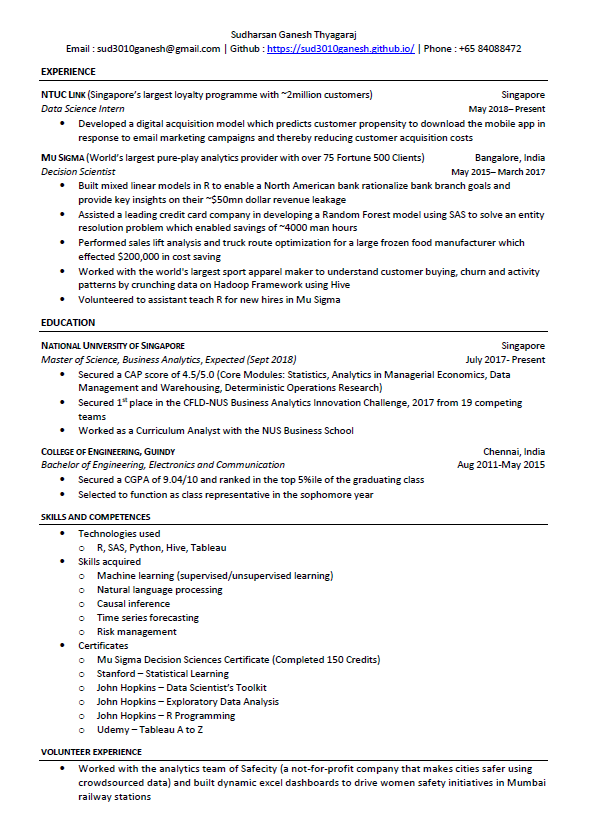
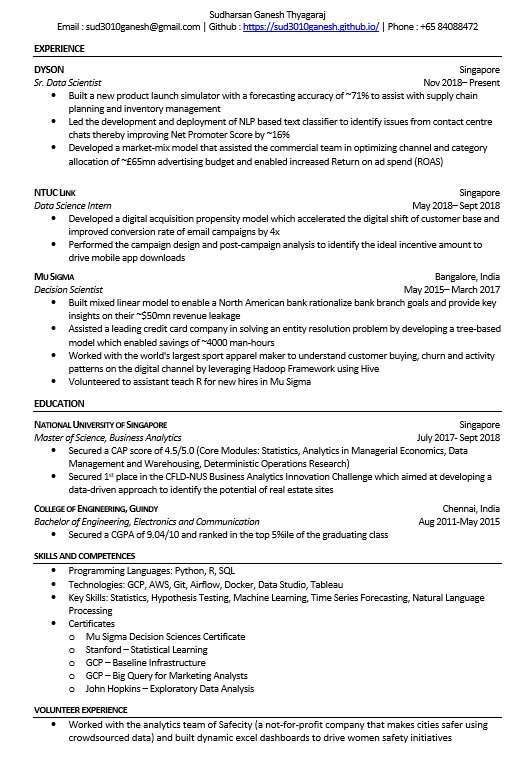
Resume Update

diff --git a/_pages/about.md b/_pages/about.md
@@ -3,10 +3,20 @@ title: "About"
 permalink: /about/
 ---
 
-I'm Sudharsan, a Data Science professional with a Masters in Business Analytics from the National University of Singapore (NUS). Prior to my Masters, I have worked with one of the world's largest pure-play analytics firms for 2 years and helped solve problems for Fortune 500 clients across e-commerce, retail and financial services domains. I have worked on problems that required definition of problem scope, data cleaning, data exploration and data visualization, selection and tuning machine learning models. The tools I have used during my stint at work include R, Python, Tableau, SAS Enterprise Guide, SAS Enterprise Miner and SQL. My current topics of interest include Natural Language Processing, Causal Inference, Time Series Forecasting, Recommender Systems and Risk Management.
+I'm Sudharsan, and I currently work as a Sr. Data Scientist in Dyson. At Dyson I work with the centralized analytics team and
+work on problems that span across different business functions and markets. I also hold a Masters in Business Analytics from the
+National University of Singapore (NUS). Prior to my Masters, I have worked with one of the world's largest pure-play analytics firms for
+2 years and helped solve problems for Fortune 500 clients across e-commerce, retail and financial services domains.
 
-I have also been a part of the team that won the top spot at the NUS Business Analytics Innovation Challenge held in 2017 and news reporting about the competition can be found on http://outside-in.nus.edu/cfld-nus-business-analytics-innovation-challenge-2017/
+I have worked across the end-to-end problem lifecycle from problem scoping, data gathering, exploration and visualization to
+development and deployment of ML models. The tools I have used during my stint at work include R, Python, Tableau, SAS Enterprise Guide,
+and SQL. I have prior experience of working with cloud platforms including GCP and AWS. My current topics of interest include
+Natural Language Processing, Time Series Forecasting and Recommender Systems.
 
-In my spare time, I play tennis, watch football and backpack to pristine locations. I have also worked with a NGO that uses data to drive women safety initiatives to leverage my analytics skills for a social cause.
+I have also been a part of the team that won the top spot at the NUS Business Analytics Innovation Challenge held in 2017.
 
-I strongly believe in the principle of Learning over Knowing. I am constantly on the lookout to discuss and learn from new people about data science, tennis, football and travel over a cup of coffee. Feel free to shoot me an email at sud3010ganesh@gmail.com
+In my spare time, I play tennis, watch football and backpack to pristine locations. I have also been involved with a NGO that
+uses data to drive women safety initiatives to leverage my analytics skills for a social cause.
+
+I strongly believe in the principle of Learning over Knowing. I am constantly on the lookout to discuss and learn from new people
+about data science, tennis, football and travel over a cup of coffee. Feel free to shoot me an email at sud3010ganesh@gmail.com
